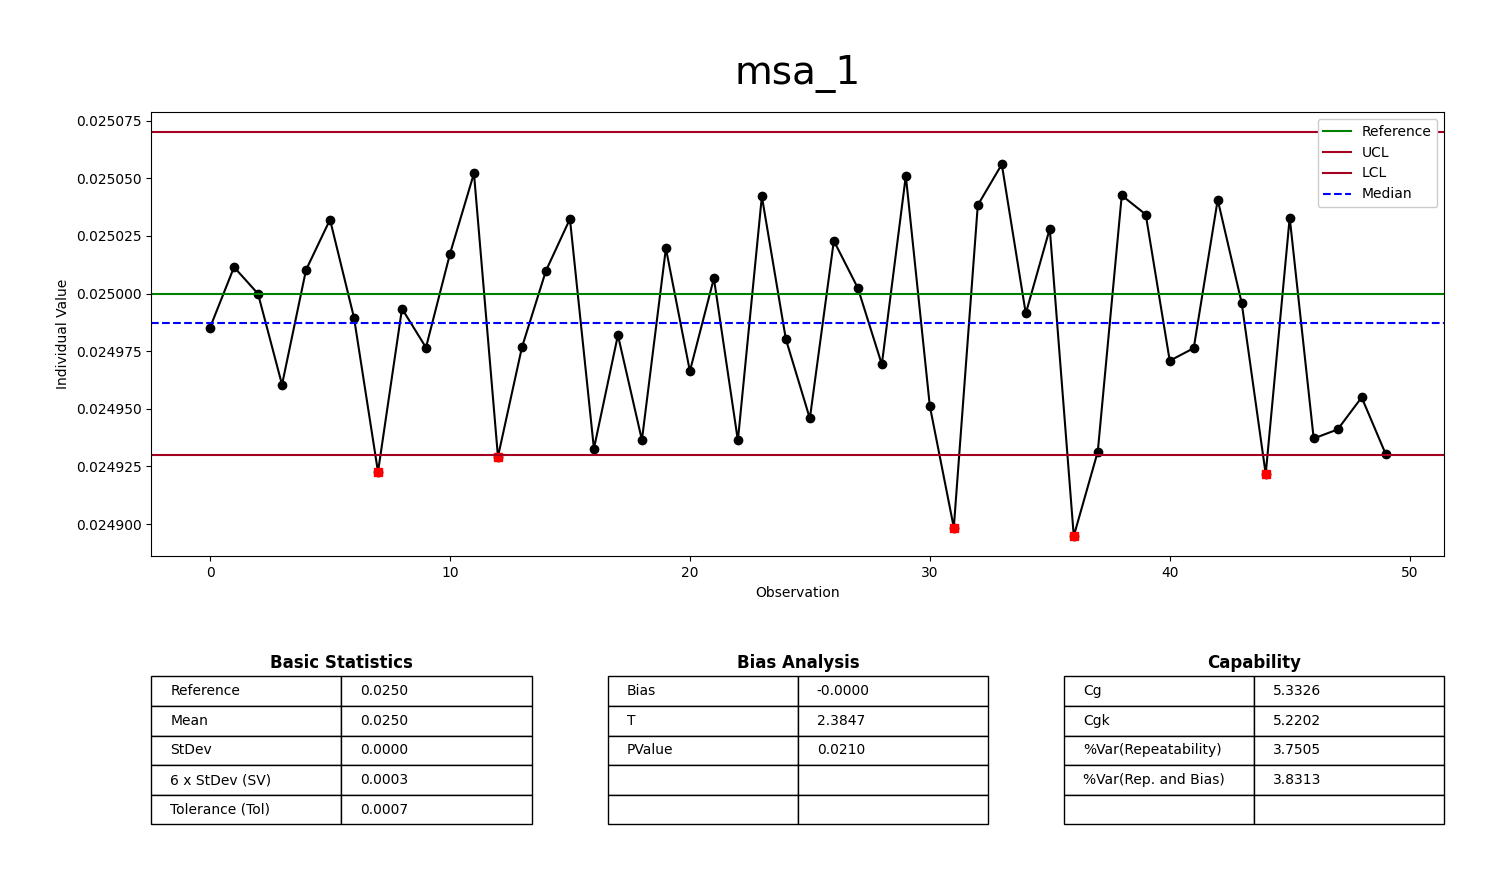
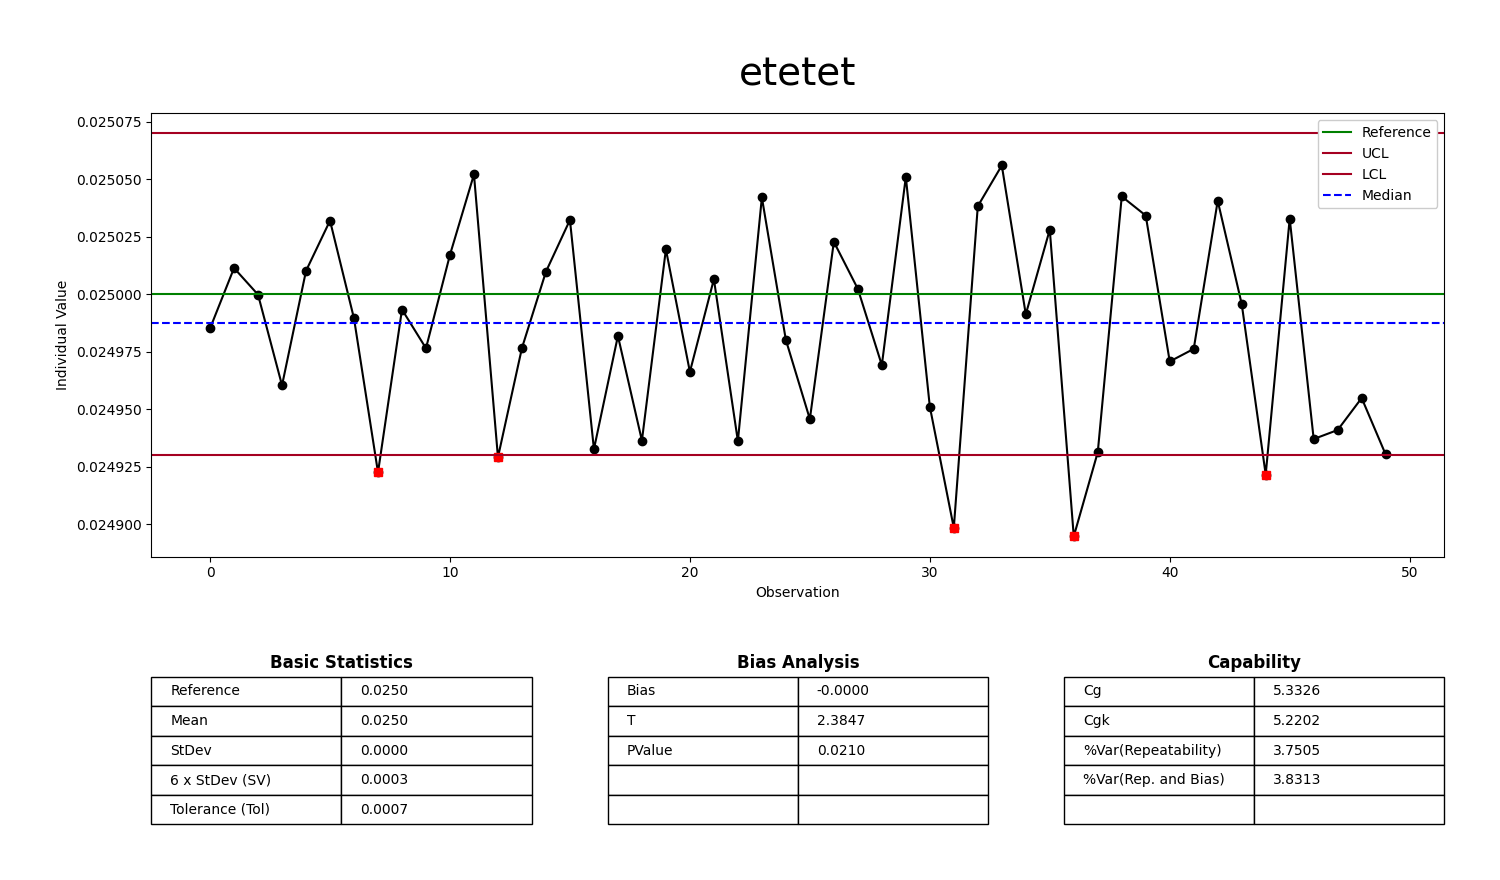
Fixed functionality of MSA 1

diff --git a/charts/msa/msa2n3crossedchart.py b/charts/msa/msa2n3crossedchart.py
@@ -92,16 +92,14 @@ class Msa2n3crossedchart(BaseChart):
 
         # Perform two-way ANOVA and get results
         (model_2way_interaction_results, model_2way_no_interaction_results, gage_rr_var_comp_no_interaction_df,
-         gage_evaluation_df) = self._perform_two_way_anova(data, operators_count, parts_count, replicates_per_part)
+         gage_evaluation_df) = self._perform_two_way_anova(data, label, operators_count, parts_count, replicates_per_part)
 
 
         with PdfPages(pdf_io) as pdf:
             # NEW PDF PAGE - Value by Part, Value by Operator, Part * Operator Interaction
             fig, axes = plt.subplots(3, 1, figsize=(8.27, 11.69))  # A4 size in inches
             fig.subplots_adjust(hspace=0.4)  # Increase hspace to add more space between charts
-            fig.suptitle(title, fontsize=16, weight='bold', y=0.95)
-            fig.text(0.5, s="MSA - 2 Crossed Analysis", ha="center", va="center", fontsize=11, y=0.92,
-                     weight="semibold")
+            fig.suptitle(title, fontsize=16, weight='bold', y=0.94)
 
             # Plot Value by Part Scatter Plot
             self._plot_value_by_part(data, data_grouped_by_part, axes[0])
@@ -207,7 +205,7 @@ class Msa2n3crossedchart(BaseChart):
             fig.subplots_adjust(bottom=0.20, top=0.85)  # Increase bottom space and headspace
 
             # Perform two-way ANOVA with and without interaction and plot the results
-            self._perform_two_way_anova(data, operators_count, parts_count,
+            self._perform_two_way_anova(data, label, operators_count, parts_count,
                                         replicates_per_part, ax, pdf)
 
             pdf.savefig(fig)
@@ -353,14 +351,14 @@ class Msa2n3crossedchart(BaseChart):
                     horizontalalignment='center', verticalalignment='bottom')
 
     @staticmethod
-    def _perform_two_way_anova(data, operators_count, parts_count, replicates_per_part, ax=None, pdf=None):
+    def _perform_two_way_anova(data, label, operators_count, parts_count, replicates_per_part, ax=None, pdf=None):
         # Perform two-way ANOVA with interaction
         model_2way_interaction = ols('Value ~ C(Part) + C(Operator) + C(Part):C(Operator)', data=data).fit()
         model_2way_interaction_results = sm.stats.anova_lm(model_2way_interaction, type=2)
         model_2way_interaction_results.rename(columns={"df": "DF", "sum_sq": "SS", "mean_sq": "MS", "PR(>F)": "P"},
                                               inplace=True)
         model_2way_interaction_results.reset_index(inplace=True, drop=True)
-        model_2way_interaction_results["Source"] = ["Part", "Operator", "Part * Operator", "Repeatability"]
+        model_2way_interaction_results["Source"] = ["Part", f"{label}", f"Part * {label}", "Repeatability"]
         model_2way_interaction_results = model_2way_interaction_results[["Source", "DF", "SS", "MS", "F", "P"]]
         model_2way_interaction_results = model_2way_interaction_results.set_index("Source")
 
@@ -370,38 +368,38 @@ class Msa2n3crossedchart(BaseChart):
         model_2way_no_interaction_results.rename(columns={"df": "DF", "sum_sq": "SS", "mean_sq": "MS", "PR(>F)": "P"},
                                                  inplace=True)
         model_2way_no_interaction_results.reset_index(inplace=True, drop=True)
-        model_2way_no_interaction_results["Source"] = ["Part", "Operator", "Repeatability"]
+        model_2way_no_interaction_results["Source"] = ["Part", f"{label}", "Repeatability"]
         model_2way_no_interaction_results = model_2way_no_interaction_results[["Source", "DF", "SS", "MS", "F", "P"]]
         model_2way_no_interaction_results = model_2way_no_interaction_results.set_index("Source")
 
         # Correct F-value calculations
         repeatability_ms = model_2way_interaction_results.loc["Repeatability", "MS"]
         model_2way_interaction_results.loc["Part", "F"] = model_2way_interaction_results.loc["Part", "MS"] / repeatability_ms
-        model_2way_interaction_results.loc["Operator", "F"] = model_2way_interaction_results.loc["Operator", "MS"] / repeatability_ms
-        model_2way_interaction_results.loc["Part * Operator", "F"] = model_2way_interaction_results.loc["Part * Operator", "MS"] / repeatability_ms
+        model_2way_interaction_results.loc[f"{label}", "F"] = model_2way_interaction_results.loc[f"{label}", "MS"] / repeatability_ms
+        model_2way_interaction_results.loc[f"Part * {label}", "F"] = model_2way_interaction_results.loc[f"Part * {label}", "MS"] / repeatability_ms
 
         # Recalculate p-values based on the new F-values
         from scipy import stats
         model_2way_interaction_results.loc["Part", "P"] = 1 - stats.f.cdf(model_2way_interaction_results.loc["Part", "F"],
                                                                           model_2way_interaction_results.loc["Part", "DF"],
                                                                           model_2way_interaction_results.loc["Repeatability", "DF"])
-        model_2way_interaction_results.loc["Operator", "P"] = 1 - stats.f.cdf(model_2way_interaction_results.loc["Operator", "F"],
-                                                                              model_2way_interaction_results.loc["Operator", "DF"],
+        model_2way_interaction_results.loc[f"{label}", "P"] = 1 - stats.f.cdf(model_2way_interaction_results.loc[f"{label}", "F"],
+                                                                              model_2way_interaction_results.loc[f"{label}", "DF"],
                                                                               model_2way_interaction_results.loc["Repeatability", "DF"])
-        model_2way_interaction_results.loc["Part * Operator", "P"] = 1 - stats.f.cdf(model_2way_interaction_results.loc["Part * Operator", "F"],
-                                                                                     model_2way_interaction_results.loc["Part * Operator", "DF"],
+        model_2way_interaction_results.loc[f"Part * {label}", "P"] = 1 - stats.f.cdf(model_2way_interaction_results.loc[f"Part * {label}", "F"],
+                                                                                     model_2way_interaction_results.loc[f"Part * {label}", "DF"],
                                                                                      model_2way_interaction_results.loc["Repeatability", "DF"])
 
         # Calculate components of variation
         var_comp_repeatability = repeatability_ms
-        var_comp_operator = (model_2way_interaction_results.loc["Operator", "MS"] - repeatability_ms) / (parts_count * replicates_per_part)
+        var_comp_operator = (model_2way_interaction_results.loc[f"{label}", "MS"] - repeatability_ms) / (parts_count * replicates_per_part)
         var_comp_part_part = (model_2way_interaction_results.loc["Part", "MS"] - repeatability_ms) / (operators_count * replicates_per_part)
         var_comp_reproducibility = var_comp_operator
         var_comp_total_gage_rr = var_comp_repeatability + var_comp_reproducibility
         var_comp_total_variation = var_comp_total_gage_rr + var_comp_part_part
 
         gage_rr_var_comp_no_interaction_df = pd.DataFrame({
-            "Source": ["Total Gage R&R", "Repeatability", "Reproducibility", "Operator", "Part-To-Part", "Total Variation"],
+            "Source": ["Total Gage R&R", "Repeatability", "Reproducibility", f"{label}", "Part-To-Part", "Total Variation"],
             "VarComp": [var_comp_total_gage_rr, var_comp_repeatability, var_comp_reproducibility, var_comp_operator,
                         var_comp_part_part, var_comp_total_variation]
         })

diff --git a/charts/msa/msa1chart.py b/charts/msa/msa1chart.py
@@ -48,12 +48,8 @@ class Msa1chart(BaseChart):
             "Value": [reference, np.mean(data), np.std(data, ddof=1), 6 * np.std(data, ddof=1), tolerance]
         })
 
-        # Calculate Repeatability and Capability Metrics
-
-        total_tol_minus_ref = (percentage_of_tolerance * tolerance - (abs(np.mean(data) - reference)))
-
-        cg = (percentage_of_tolerance * tolerance) / (3 * np.std(data, ddof=1))
-        cgk = total_tol_minus_ref / (6 * np.std(data, ddof=1) / 2)
+        cg = (percentage_of_tolerance*tolerance)/(3*np.std(data, ddof=1))
+        cgk = (percentage_of_tolerance*tolerance-(abs(np.mean(data)-reference)))/(3*np.std(data, ddof=1))
 
         K = 20  # Constant used in the formula
         bias = np.mean(data) - reference
@@ -115,7 +111,7 @@ class Msa1chart(BaseChart):
         # Function to add empty rows to DataFrames to match max_rows
         def add_empty_rows_and_format(df, max_rows):
             # Format cell values to a maximum of 5 decimal places
-            df = df.map(lambda x: f"{x:.4f}" if isinstance(x, (int, float)) else x)
+            df = df.map(lambda x: f"{x:.8f}" if isinstance(x, (int, float)) else x)
 
             # Add empty rows to match max_rows
             additional_rows = max_rows - len(df)
@@ -143,13 +139,6 @@ class Msa1chart(BaseChart):
 
         plt.subplots_adjust(hspace=1.5, top=0.85, bottom=0.15, left=0.15, right=0.85)
         plt.tight_layout(pad=4.0)
-
-        # Save results to files
-        output_dir = "Results"
-        os.makedirs(output_dir, exist_ok=True)
-        capability_df.to_csv(os.path.join(output_dir, "capability_df.csv"), index=False)
-        bias_df.to_csv(os.path.join(output_dir, "bias_df.csv"), index=False)
-        plt.savefig(os.path.join(output_dir, "Run_Chart.png"))
         plt.close()
 
         # Return the generated plot

diff --git a/charts/msa/msa2n3nestedchart.py b/charts/msa/msa2n3nestedchart.py
@@ -75,9 +75,7 @@ class Msa2n3nestedchart(BaseChart):
         with PdfPages(pdf_io) as pdf:
             fig, axes = plt.subplots(2, 1, figsize=(8.27, 11.69))  # A4 size in inches
             fig.subplots_adjust(hspace=0.4)  # Increase hspace to add more space between charts
-            fig.suptitle(title, fontsize=16, weight='bold', y=0.95)
-            fig.text(0.5, s="MSA - 2 Crossed Analysis", ha="center", va="center", fontsize=11, y=0.92,
-                     weight="semibold")
+            fig.suptitle(title, fontsize=16, weight='bold', y=0.94)
 
             # Plot Value by Part Scatter Plot
             self._plot_value_by_part(data, data_grouped_by_part, axes[0])
